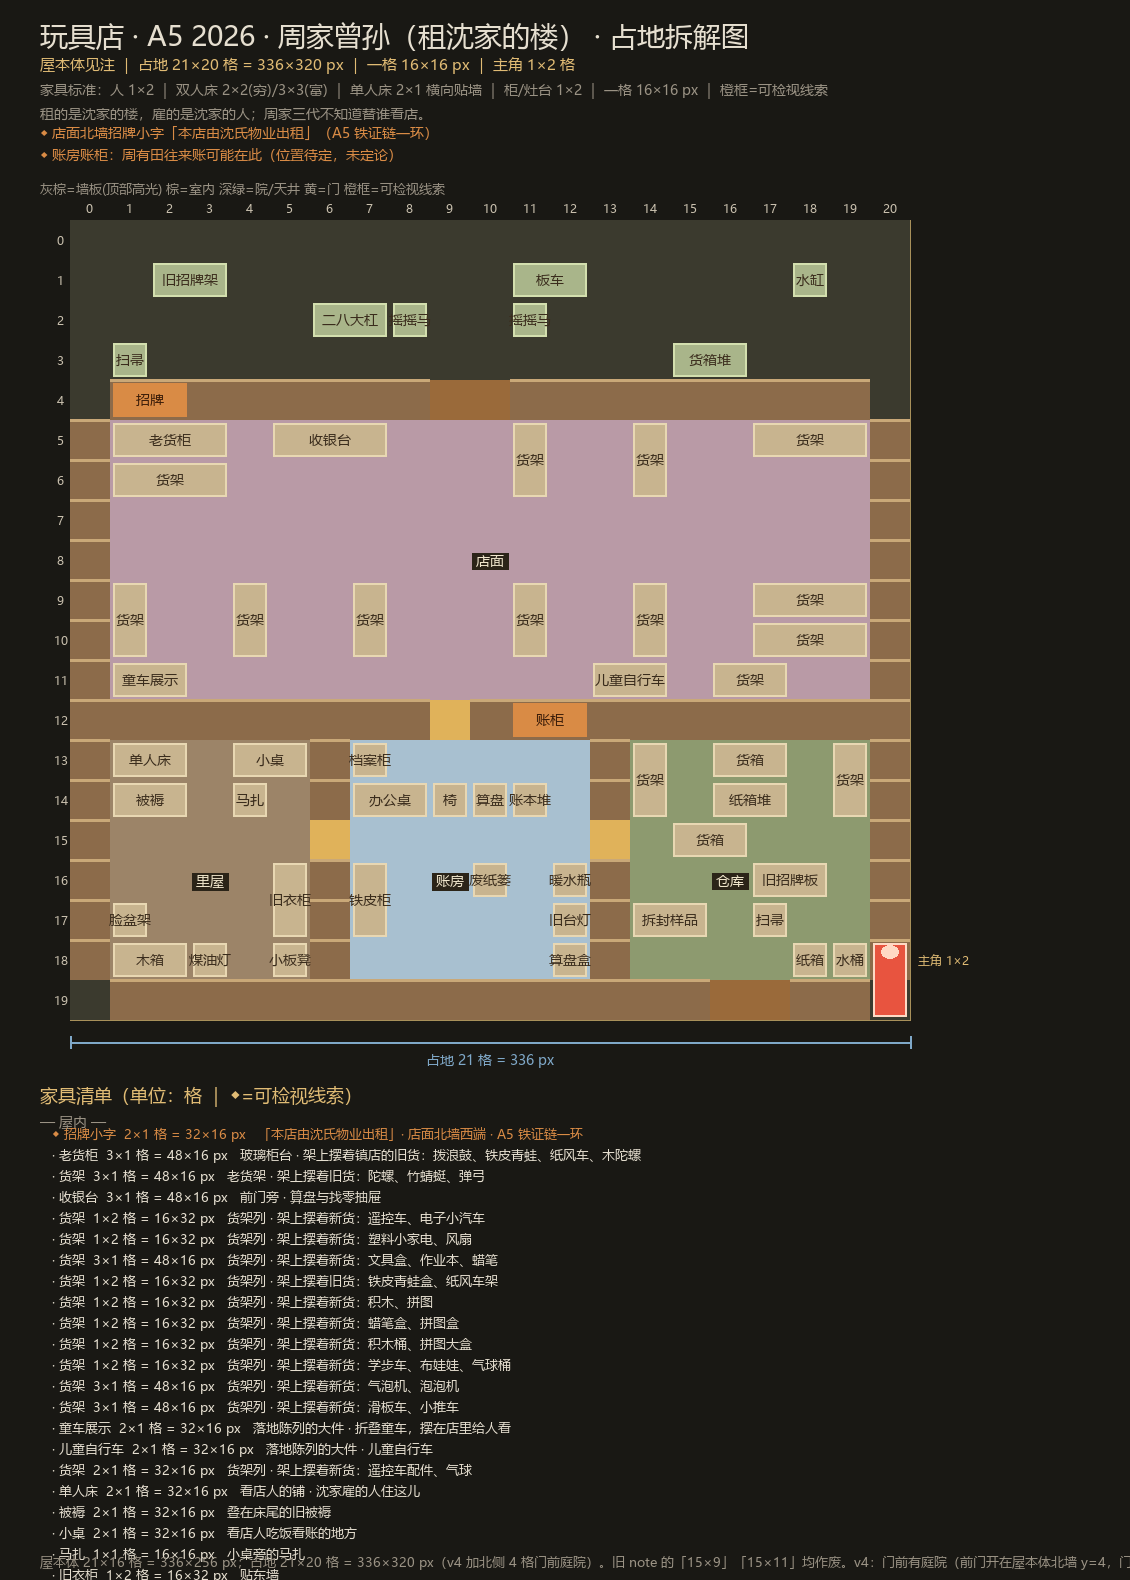
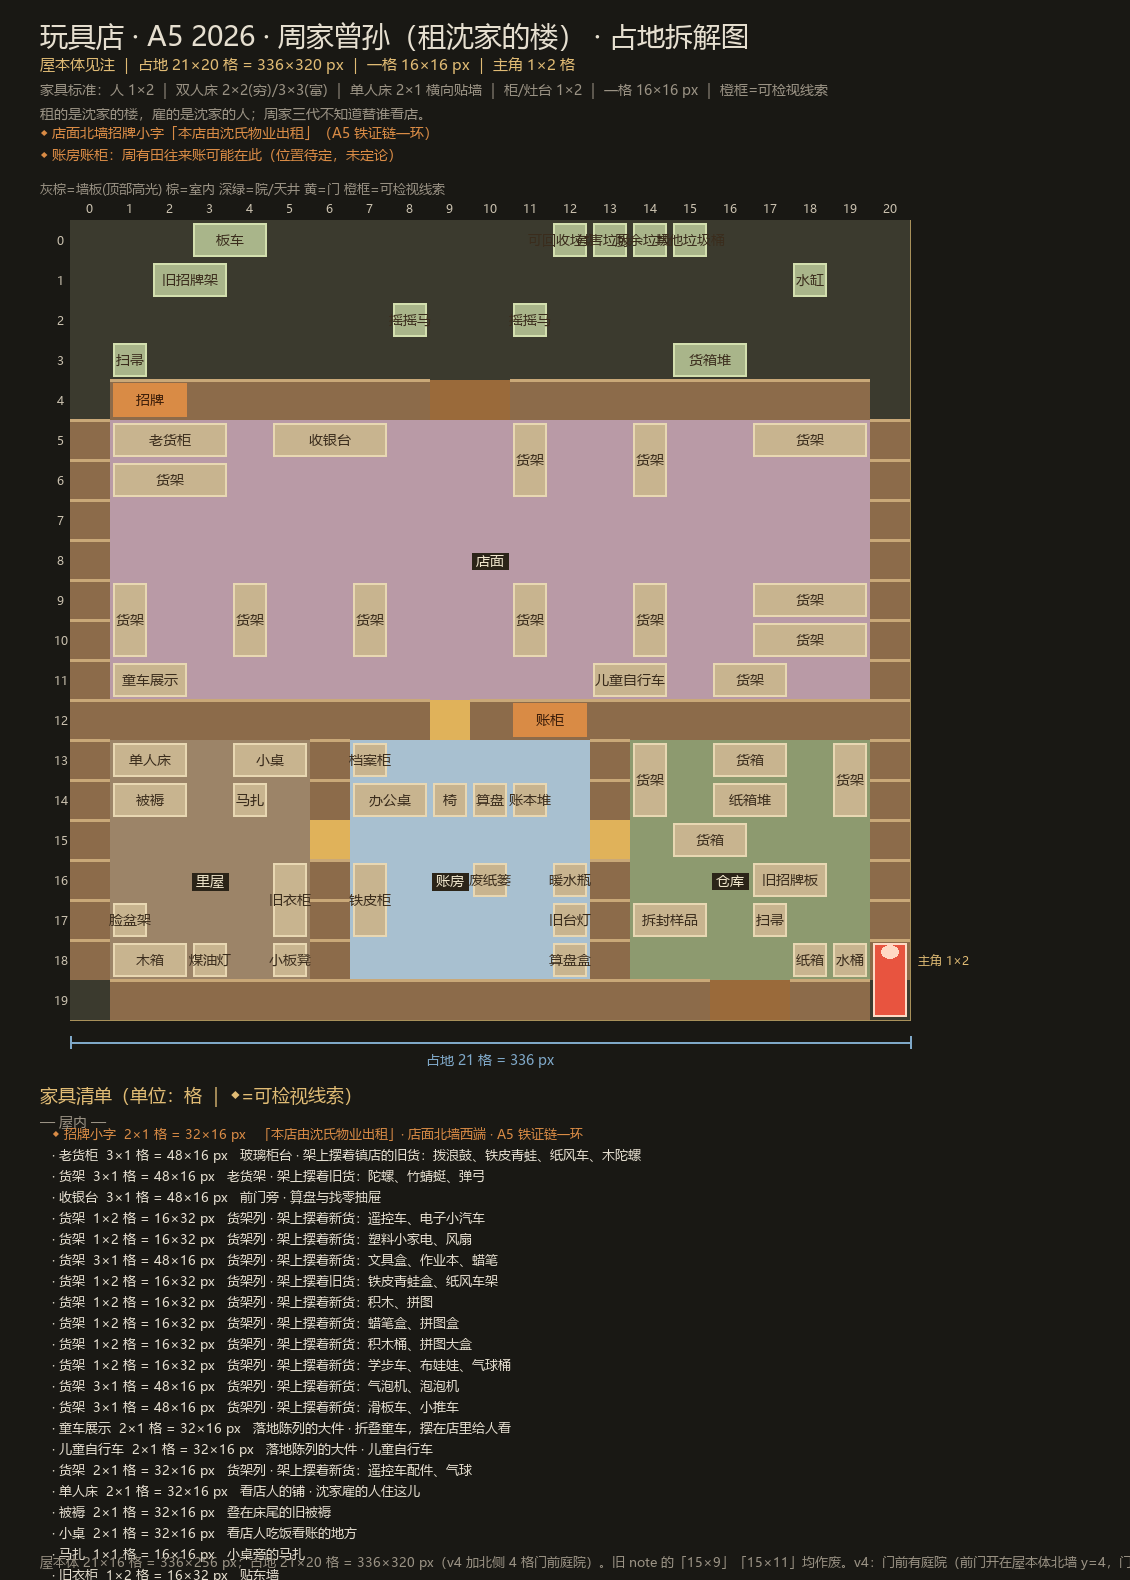
feat(toyshop): 门口换垃圾分类四桶 + 板车靠墙 + 删二八大杠

Changed region(s): [[0.4336, 0.1241, 0.6195, 0.1861], [0.1549, 0.1241, 0.2478, 0.1861], [0.2788, 0.1861, 0.3407, 0.2171]]

diff --git a/_ref/houses/_redo_toyshop.py b/_ref/houses/_redo_toyshop.py
@@ -10,6 +10,8 @@ v4 口径（用户 2026-11-22 拍板，四条）：
     前门（大门）从屋本体北墙移到 **y=4**（屋本体北墙那一行），门内是店面、门外是庭院。
   - **摇摇车可以安排两个** → 摇摇马放两只，摆在**店门口的门前庭院**里（y=2 行、前门 x9..10 的两侧 x8 / x11），
     **不放在店里**（用户 m01018 澄清：「摇摇车放在店门口，不是放在店里面」）。
+  - **年代与门口陈设（用户 m01164）** → 删掉「二八大杠」（2026 年不该再有这种老式自行车）；
+    板车挪到院墙边靠墙放（y0）；门口靠院墙一排加**垃圾分类四桶**（可回收蓝桶 / 有害红桶 / 厨余绿桶 / 其他灰桶）。
 
 v3 口径（保留）：玩具不落地 —— 小件货品全部并进货架/柜台的 note（「架上摆着…」），
   落地只留大件（童车 / 儿童自行车在店里；摇摇马两只在店门口庭院）；美术那边只要多出几版不重样的货架贴图。
@@ -91,10 +93,14 @@ toyshop = {
     ],
     "furniture": [
         # ══ 门前庭院 y0..3（x0..20，门在 (9,4)(10,4) 正前方的院子）══
+        # 靠北墙 y0 一排：板车贴墙放 + 2026 年垃圾分类四桶（可回收/有害/厨余/其他）
+        F("板车", 3, 0, 2, 1, "门口 · 卸货用的板车，靠北墙放", zone="yard"),
+        F("可回收垃圾桶", 12, 0, 1, 1, "垃圾分类 · 可回收物（蓝桶），靠院墙一排", zone="yard"),
+        F("有害垃圾桶", 13, 0, 1, 1, "垃圾分类 · 有害垃圾（红桶），靠院墙一排", zone="yard"),
+        F("厨余垃圾桶", 14, 0, 1, 1, "垃圾分类 · 厨余垃圾（绿桶），靠院墙一排", zone="yard"),
+        F("其他垃圾桶", 15, 0, 1, 1, "垃圾分类 · 其他垃圾（灰桶），靠院墙一排", zone="yard"),
         F("旧招牌架", 2, 1, 2, 1, "门口 · 挂着的旧幌子，三代没换过", zone="yard"),
-        F("板车", 11, 1, 2, 1, "门口 · 卸货用的板车", zone="yard"),
         F("水缸", 18, 1, 1, 1, "门口 · 接雨水", zone="yard"),
-        F("二八大杠", 6, 2, 2, 1, "门口 · 靠墙停着的旧自行车", zone="yard"),
         F("摇摇马", 8, 2, 1, 1, "门口 · 摇摇马，摆门前给孩子试骑", zone="yard"),
         F("摇摇马", 11, 2, 1, 1, "门口 · 摇摇马，摆门前给孩子试骑", zone="yard"),
         F("扫帚", 1, 3, 1, 1, "门口靠墙的扫帚", zone="yard"),
@@ -343,9 +349,29 @@ for f in toyshop["furniture"]:
 
 # ── 自检 13：年代红线（2026 年的村里小玩具店不该有的东西）──
 forbidden = ("电视", "电脑", "手机", "自动售货机", "抓娃娃机", "奶茶机",
-             "空调", "冰箱", "微波炉")
+             "空调", "冰箱", "微波炉", "二八大杠")
 for f in toyshop["furniture"]:
     assert not any(k in f["name"] for k in forbidden), f"不该有「{f['name']}」"
+
+# ── 自检 14：垃圾分类四桶齐全（可回收/有害/厨余/其他）+ 靠院墙放置 ──
+BINS = {"可回收垃圾桶": "可回收物", "有害垃圾桶": "有害垃圾",
+        "厨余垃圾桶": "厨余垃圾", "其他垃圾桶": "其他垃圾"}
+bins = [f for f in toyshop["furniture"] if f["name"] in BINS]
+assert len(bins) == 4, f"垃圾分类要四个桶，现在 {len(bins)} 个"
+assert {f["name"] for f in bins} == set(BINS), "四桶种类不全（可回收/有害/厨余/其他）"
+wall_y = LOT[1]  # 院墙在 y0
+for f in bins:
+    x, y, w, h = f["rect"]
+    assert f["zone"] == "yard", f"{f['name']} 要摆在门口庭院"
+    assert y == wall_y, f"{f['name']} 要靠院墙（y={wall_y}），现在 {f['rect']}"
+    assert BINS[f["name"]] in f["note"], f"{f['name']} 的 note 里要写明「{BINS[f['name']]}」"
+    for i in range(x, x + w):
+        for j in range(y, y + h):
+            assert (i, j) in yard_cells_, f"{f['name']} {f['rect']} 不在门前庭院里"
+# 板车靠墙：y 必须落在院墙那一行
+carts = [f for f in toyshop["furniture"] if f["name"] == "板车"]
+assert len(carts) == 1, "板车要一辆"
+assert carts[0]["rect"][1] == wall_y, f"板车要靠墙放置（y={wall_y}），现在 {carts[0]['rect']}"
 
 if PREVIEW:
     out = os.path.join(HERE, "..", "..", "lab", "toyshop_plan_preview.png")
